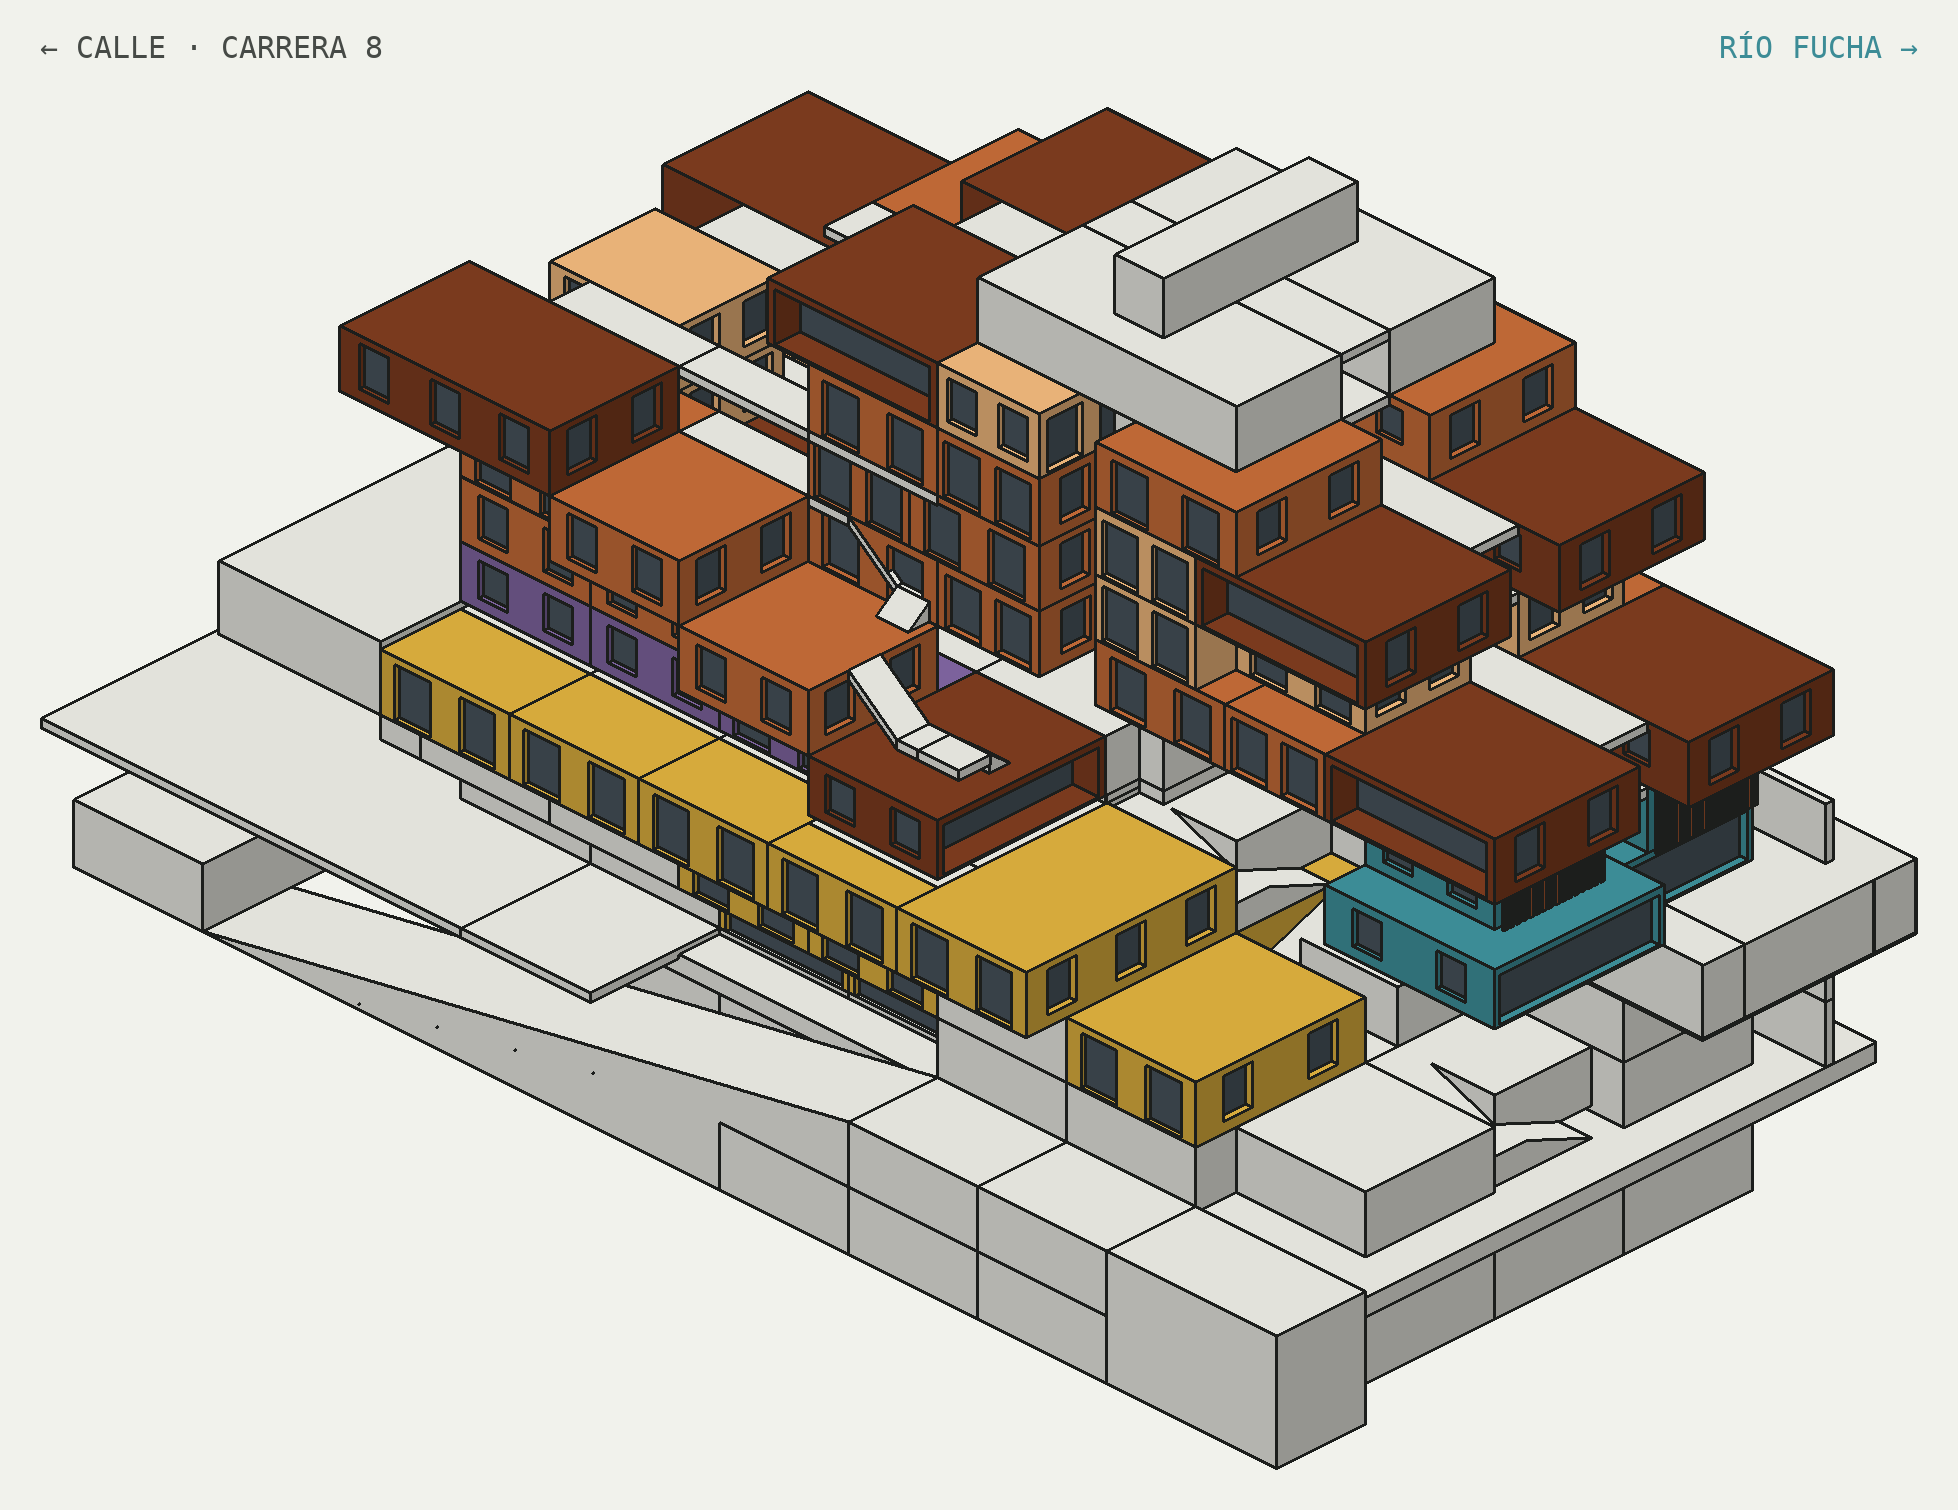
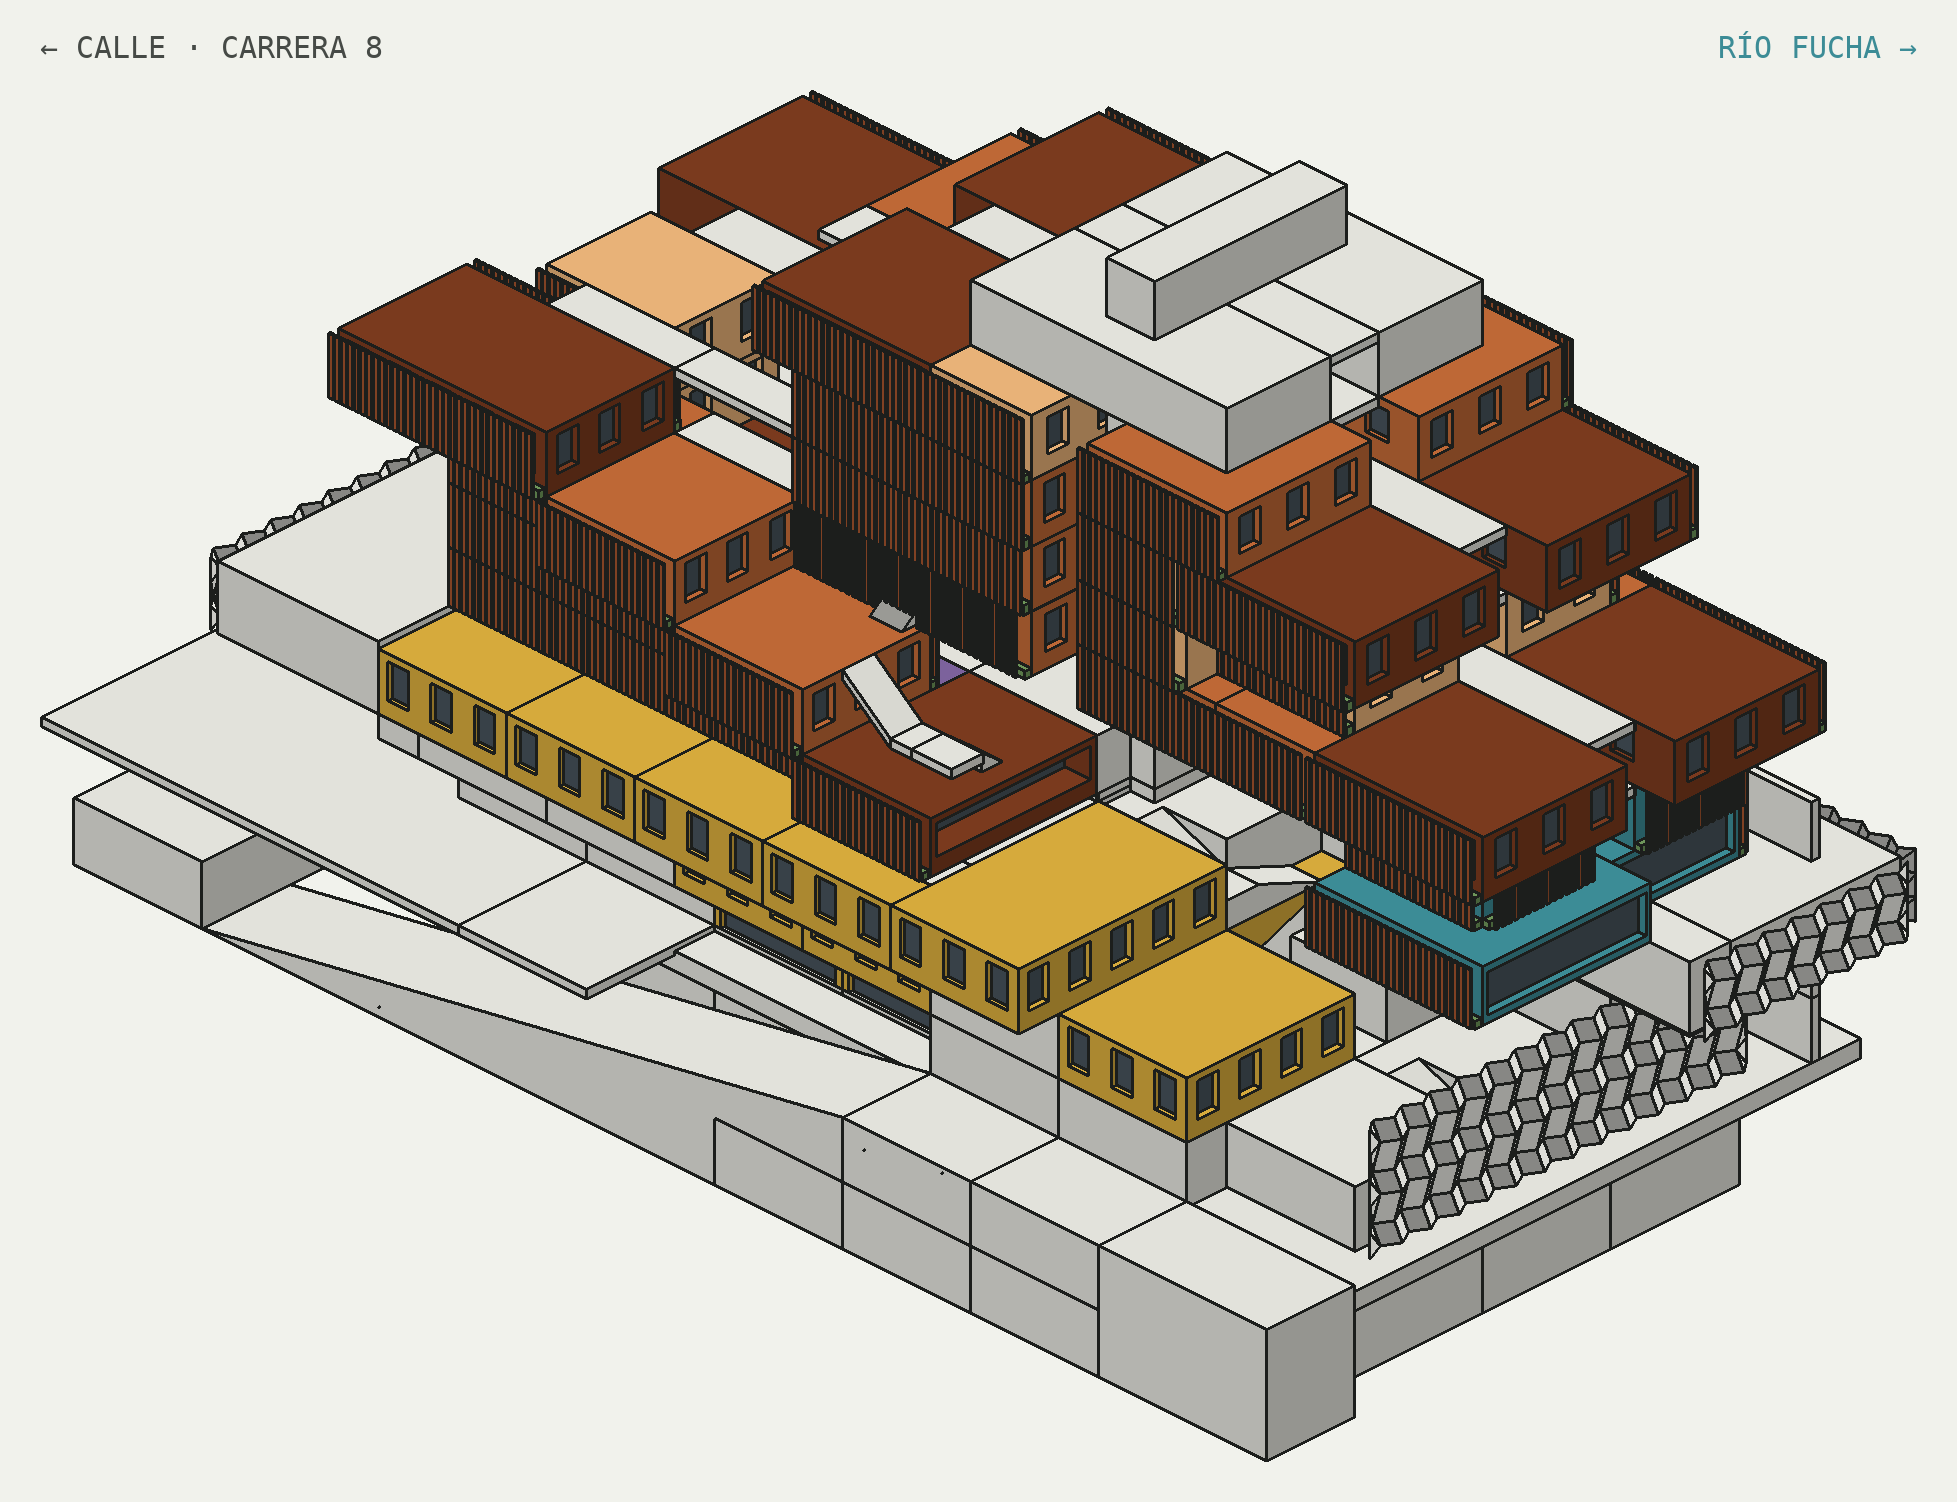
La Ola: fachada con antepecho, celosía flotada y origami en comunes
Claude-Session: https://claude.ai/code/session_01Rs9TY9ki2YSVtRsSTGuvtX

diff --git a/la-ola/index.html b/la-ola/index.html
@@ -259,8 +259,22 @@ footer{border-top:1px solid var(--rule);padding-top:16px;display:flex;flex-wrap:
   </div>
 </section>
 
+<section class="sec">
+  <div class="lado"><span class="rot">La fachada</span><h2>Ladrillo que filtra, origami donde vale la pena</h2></div>
+  <div class="cuerpo">
+    <p>En Bogotá, a 4° del ecuador, el sol bajo de la mañana y de la tarde pega en las fachadas oriente y occidente; al norte y al sur llega poco. La fachada responde a eso, sin vidrio de piso a techo:</p>
+    <div class="dos">
+      <div><h3>Ventana con antepecho</h3><p><em>Vertical, en vano profundo de ladrillo</em>, a 0,90 m del piso: deja muro para los muebles y privacidad.</p></div>
+      <div><h3>Celosía flotada</h3><p><em>Ladrillo calado a 50 cm de la fachada</em> en oriente y occidente, con jardinera entre las dos pieles: luz indirecta, colchón térmico.</p></div>
+      <div><h3>Abierta al río</h3><p><em>El norte casi no recibe sol directo</em>: los dúplex se abren hacia el Fucha y el segundo piso se protege con la misma celosía.</p></div>
+      <div><h3>Origami en los comunes</h3><p><em>Una piel plegada</em> sobre el hogar del adulto mayor, la cocina comunitaria y la guardería: la inversión fuerte va donde se encuentra todo el edificio.</p></div>
+    </div>
+    <figure class="plano"><img src="img/fachada-occidente.jpg" alt="Maqueta de La Ola vista desde el occidente: celosías de ladrillo sobre los módulos de vivienda y una piel plegada tipo origami sobre el podio de espacios comunes"><figcaption>Occidente: celosía de ladrillo en la vivienda, origami en el podio común.</figcaption></figure>
+  </div>
+</section>
+
 <section class="sec ancha">
-  <div class="lado"><span class="rot">Tipologías</span><h2>Seis apartamentos en cuatro módulos</h2><p class="nota">Cada tipología cabe exacta en un módulo del modelo. Los muros de fachada son de ladrillo; los interiores, livianos, para que la planta pueda cambiar con la familia.</p></div>
+  <div class="lado"><span class="rot">Tipologías</span><h2>Seis apartamentos en cuatro módulos</h2><p class="nota">Cada tipología cabe exacta en un módulo del modelo. Los muros de fachada son de ladrillo; los interiores, livianos, para que la planta pueda cambiar con la familia. En el modelo, las ventanas van con antepecho; la terraza vidriada y el dúplex del río son las excepciones.</p></div>
   <div class="cuerpo tipos">
     <figure class="plano"><img src="img/aptos/tipo-A.svg" alt="Planta del tipo A, 6,5 por 8 metros: una alcoba, baño, cocina abierta, comedor y sala hacia la fachada"><figcaption><b>A · 52 m²</b> · 6,5 × 8 m · 1 alcoba</figcaption></figure>
     <figure class="plano"><img src="img/aptos/tipo-B.svg" alt="Planta del tipo B, 8 por 8 metros: dos alcobas, estudio, baño, cocina y sala comedor"><figcaption><b>B · 64 m²</b> · 8 × 8 m · 2 alcobas y estudio</figcaption></figure>
